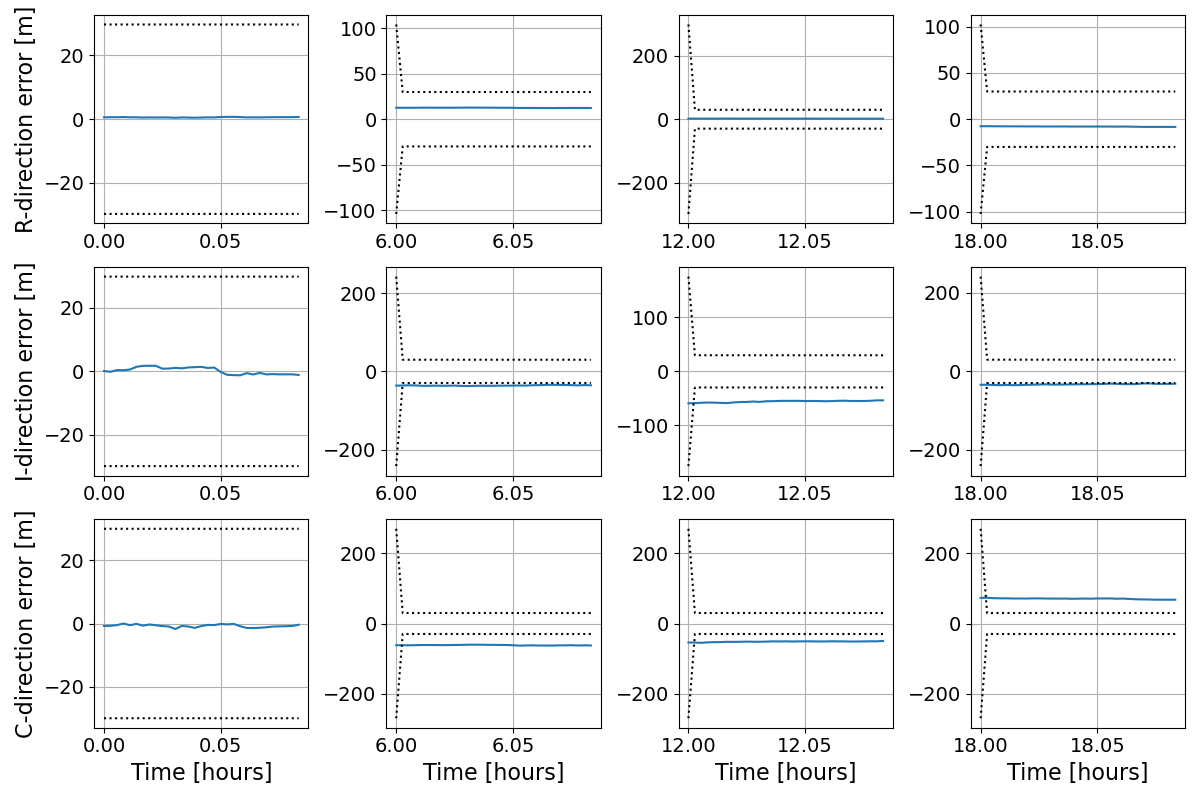
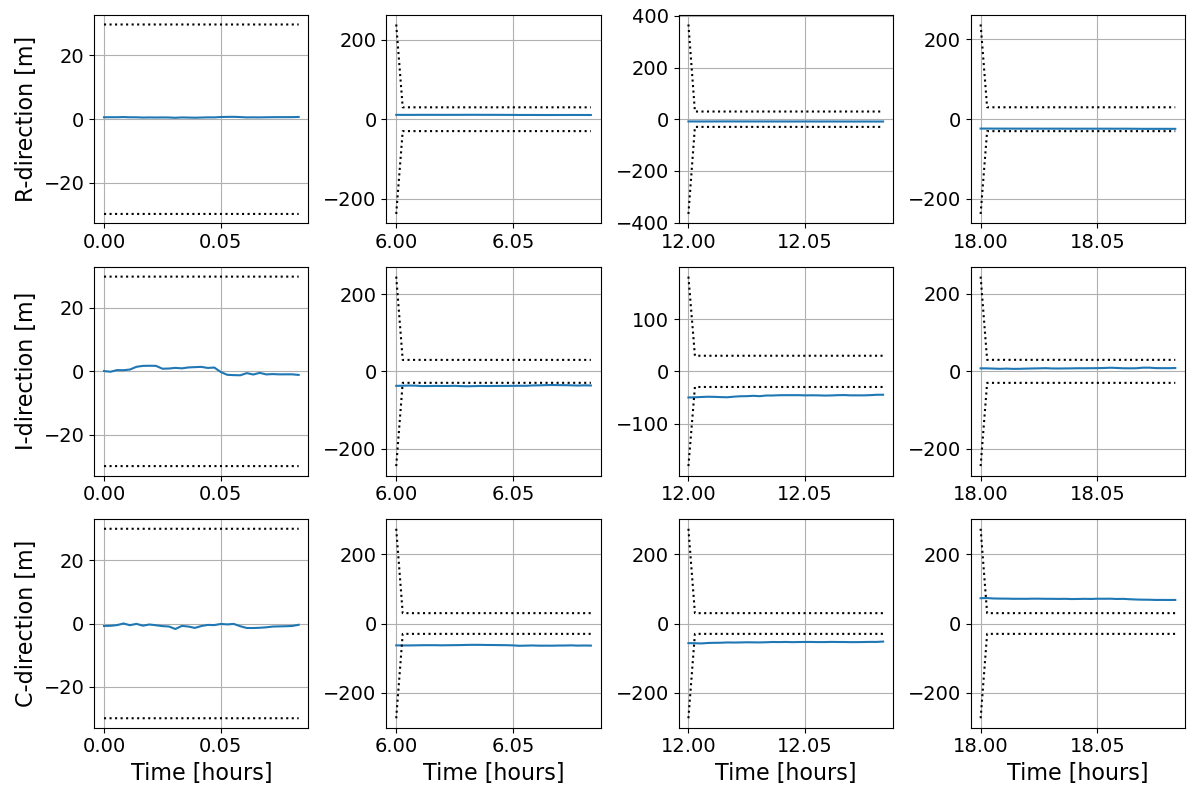
Final commit

diff --git a/question_2.py b/question_2.py
@@ -125,7 +125,7 @@ def analysis(truth_state, state, meas,
         ax1.plot(time_rel[:31], sigma_bound_pos[:31, 0], 'k:')
         ax1.plot(time_rel[:31], -sigma_bound_pos[:31, 0], 'k:')
         ax1.grid()
-        ax1.set_ylabel('R-direction error [m]')
+        ax1.set_ylabel('R-direction [m]', size=16)
         ax2.plot(time_rel[31:62], error_ric[31:62, 0])
         ax2.plot(time_rel[31:62], sigma_bound_pos[31:62, 0], 'k:')
         ax2.plot(time_rel[31:62], -sigma_bound_pos[31:62, 0], 'k:')
@@ -140,7 +140,7 @@ def analysis(truth_state, state, meas,
         ax4.grid()
         # I direction
         ax5.plot(time_rel[:31], error_ric[:31, 1])
-        ax5.set_ylabel('I-direction error [m]')
+        ax5.set_ylabel('I-direction [m]', size=16)
         ax5.plot(time_rel[:31], sigma_bound_pos[:31, 4], 'k:')
         ax5.plot(time_rel[:31], -sigma_bound_pos[:31, 4], 'k:')
         ax5.grid()
@@ -160,23 +160,23 @@ def analysis(truth_state, state, meas,
         ax9.plot(time_rel[:31], error_ric[:31, 2])
         ax9.plot(time_rel[:31], sigma_bound_pos[:31, 8], 'k:')
         ax9.plot(time_rel[:31], -sigma_bound_pos[:31, 8], 'k:')
-        ax9.set_ylabel('C-direction error [m]')
-        ax9.set_xlabel('Time [hours]')
+        ax9.set_ylabel('C-direction [m]', size=16)
+        ax9.set_xlabel('Time [hours]', size=16)
         ax9.grid()
         ax10.plot(time_rel[31:62], error_ric[31:62, 2])
         ax10.plot(time_rel[31:62], sigma_bound_pos[31:62, 8], 'k:')
         ax10.plot(time_rel[31:62], -sigma_bound_pos[31:62, 8], 'k:')
-        ax10.set_xlabel('Time [hours]')
+        ax10.set_xlabel('Time [hours]', size=16)
         ax10.grid()
         ax11.plot(time_rel[62:93], error_ric[62:93, 2])
         ax11.plot(time_rel[62:93], sigma_bound_pos[62:93, 8], 'k:')
         ax11.plot(time_rel[62:93], -sigma_bound_pos[62:93, 8], 'k:')
-        ax11.set_xlabel('Time [hours]')
+        ax11.set_xlabel('Time [hours]', size=16)
         ax11.grid()
         ax12.plot(time_rel[93:], error_ric[93:, 2])
         ax12.plot(time_rel[93:], sigma_bound_pos[93:, 8], 'k:')
         ax12.plot(time_rel[93:], -sigma_bound_pos[93:, 8], 'k:')
-        ax12.set_xlabel('Time [hours]')
+        ax12.set_xlabel('Time [hours]', size=16)
         ax12.grid()
         plt.tight_layout()
         plt.savefig('plots/' + name + '_error_sparse.png')
@@ -189,7 +189,7 @@ def analysis(truth_state, state, meas,
             # R direction
             ax1.scatter(time_rel[:31], resid[:31, 0])
             ax1.grid()
-            ax1.set_ylabel('R-direction residual [m]')
+            ax1.set_ylabel('Range [m]', size=16)
             ax2.scatter(time_rel[31:62], resid[31:62, 0])
             ax2.grid()
             ax3.scatter(time_rel[62:93], resid[62:93, 0])
@@ -197,28 +197,28 @@ def analysis(truth_state, state, meas,
             ax4.scatter(time_rel[93:], resid[93:, 0])
             ax4.grid()
             # I direction
-            ax5.scatter(time_rel[:31], resid[:31, 1])
-            ax5.set_ylabel('I-direction residual [m]')
+            ax5.scatter(time_rel[:31], resid[:31, 1]*rad2arcsec)
+            ax5.set_ylabel('RA [arcsec]', size=16)
             ax5.grid()
-            ax6.scatter(time_rel[31:62], resid[31:62, 1])
+            ax6.scatter(time_rel[31:62], resid[31:62, 1]*rad2arcsec)
             ax6.grid()
-            ax7.scatter(time_rel[62:93], resid[62:93, 1])
+            ax7.scatter(time_rel[62:93], resid[62:93, 1]*rad2arcsec)
             ax7.grid()
-            ax8.scatter(time_rel[93:], resid[93:, 1])
+            ax8.scatter(time_rel[93:], resid[93:, 1]*rad2arcsec)
             ax8.grid()
             # C direction
-            ax9.scatter(time_rel[:31], resid[:31, 2])
-            ax9.set_ylabel('C-direction residual [m]')
-            ax9.set_xlabel('Time [hours]')
+            ax9.scatter(time_rel[:31], resid[:31, 2]*rad2arcsec)
+            ax9.set_ylabel('DEC [arcsec]', size=16)
+            ax9.set_xlabel('Time [hours]', size=16)
             ax9.grid()
-            ax10.scatter(time_rel[31:62], resid[31:62, 2])
-            ax10.set_xlabel('Time [hours]')
+            ax10.scatter(time_rel[31:62], resid[31:62, 2]*rad2arcsec)
+            ax10.set_xlabel('Time [hours]', size=16)
             ax10.grid()
-            ax11.scatter(time_rel[62:93], resid[62:93, 2])
-            ax11.set_xlabel('Time [hours]')
+            ax11.scatter(time_rel[62:93], resid[62:93, 2]*rad2arcsec)
+            ax11.set_xlabel('Time [hours]', size=16)
             ax11.grid()
-            ax12.scatter(time_rel[93:], resid[93:, 2])
-            ax12.set_xlabel('Time [hours]')
+            ax12.scatter(time_rel[93:], resid[93:, 2]*rad2arcsec)
+            ax12.set_xlabel('Time [hours]', size=16)
             ax12.grid()
             plt.tight_layout()
             plt.savefig('plots/' + name + '_residuals.png')
@@ -229,7 +229,7 @@ def analysis(truth_state, state, meas,
                 2, 4, figsize=(16, 10))
             # R direction
             ax1.scatter(time_rel[:31], resid[:31, 0] * rad2arcsec )
-            ax1.set_ylabel('RA residuals (arcsec)')
+            ax1.set_ylabel('RA (arcsec)', size=18)
             ax1.grid()
             ax2.scatter(time_rel[31:62], resid[31:62, 0] * rad2arcsec)
             ax2.grid()
@@ -239,17 +239,17 @@ def analysis(truth_state, state, meas,
             ax4.grid()
             # I direction
             ax5.scatter(time_rel[:31], resid[:31, 1] * rad2arcsec)
-            ax5.set_ylabel('DEC residuals (arcsec)')
-            ax5.set_xlabel('Time [hours]')
+            ax5.set_ylabel('DEC (arcsec)', size=18)
+            ax5.set_xlabel('Time [hours]', size=18)
             ax5.grid()
             ax6.scatter(time_rel[31:62], resid[31:62, 1] * rad2arcsec)
-            ax6.set_xlabel('Time [hours]')
+            ax6.set_xlabel('Time [hours]', size=16)
             ax6.grid()
             ax7.scatter(time_rel[62:93], resid[62:93, 1] * rad2arcsec)
-            ax7.set_xlabel('Time [hours]')
+            ax7.set_xlabel('Time [hours]', size=18)
             ax7.grid()
             ax8.scatter(time_rel[93:], resid[93:, 1] * rad2arcsec)
-            ax8.set_xlabel('Time [hours]')
+            ax8.set_xlabel('Time [hours]', size=18)
             ax8.grid()
             plt.tight_layout()
             plt.savefig('plots/' + name + '_residuals.png')
@@ -260,8 +260,8 @@ def analysis(truth_state, state, meas,
 # Radar A
 # Set process noise
 Qeci = 0 * np.diag([1., 1., 1.])
-Qric = 0 * np.diag([1., 1., 1.])
-alpha = 1e-1                            # to tune (in range [1e-4, 1])
+Qric = 8e-15 * np.diag([1., 1., 1.])
+alpha = 1e-4                            # to tune (in range [1e-4, 1])
 filter_params = {
     'Qeci': Qeci,
     'Qric': Qric,
@@ -273,11 +273,11 @@ rms_rad_pos_a, rms_rad_vel_a = analysis(
     int_params, filter_params, t_rad_a, 'radar_a', 'rad', 1)
 print(rms_rad_pos_a)
 print(rms_rad_vel_a)
-# Optical A
+# # Optical A
 # Set process noise
 Qeci = 0 * np.diag([1., 1., 1.])
-Qric = 0 * np.diag([1., 1., 1.])
-alpha = 1e-1                            # to tune (in range [1e-4, 1])
+Qric = 5e-15 * np.diag([20., 1., 1.])
+alpha = 1e-3                            # to tune (in range [1e-4, 1])
 filter_params = {
     'Qeci': Qeci,
     'Qric': Qric,
@@ -293,8 +293,8 @@ print(rms_opt_vel_a)
 # Radar B
 # Set process noise
 Qeci = 0 * np.diag([1., 1., 1.])
-Qric = 1e-12 * np.diag([1., 1., 1.])
-alpha = 1e-1                            # to tune (in range [1e-4, 1])
+Qric = 8e-12 * np.diag([1., 1., 1.])
+alpha = 1e-4                            # to tune (in range [1e-4, 1])
 filter_params = {
     'Qeci': Qeci,
     'Qric': Qric,
@@ -309,7 +309,7 @@ print(rms_rad_vel_b)
 # Optical B
 # Set process noise
 Qeci = 0 * np.diag([1., 1., 1.])
-Qric = 1e-15 * np.diag([1., 1., 1.])
+Qric = 5e-14 * np.diag([1., 1., 1.])
 alpha = 1e-1                            # to tune (in range [1e-4, 1])
 filter_params = {
     'Qeci': Qeci,
